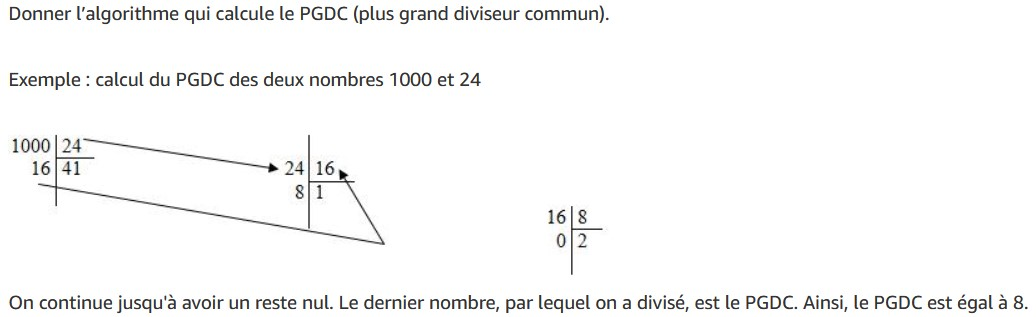
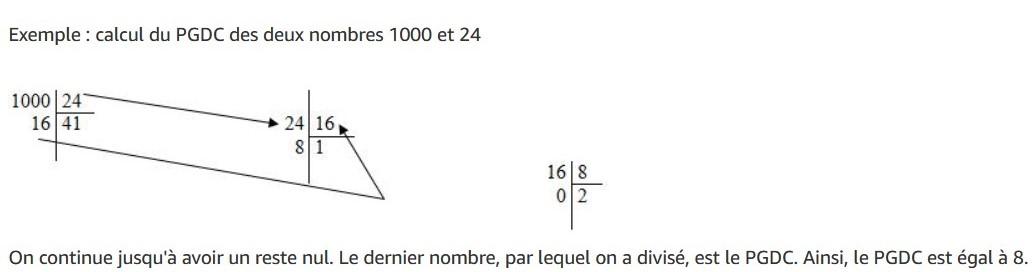
algo à jour

diff --git a/java/java1/0-algo-java/presentation/algo_basics.html b/java/java1/0-algo-java/presentation/algo_basics.html
@@ -232,7 +232,7 @@
         <section>
           <h3>Petit rappel sur le PGCD</h3>
           <figure class="fragment">
-            <img src="reveal.js/images/pgcd.jpg" alt="pgcd" width="600">
+            <img src="reveal.js/images/pgcd.jpg" alt="pgcd" width="800">
             <figcaption></figcaption>
           </figure>
         </section>

diff --git a/java/java1/0-algo-java/course/algo_basics.md b/java/java1/0-algo-java/course/algo_basics.md
@@ -60,9 +60,10 @@ Il y a de fortes chances que ce soit les plus contraintes (celles où il y a le 
 **Littérature** : [Think Like A Programmer An Introduction To Creative Problem Solving (V. Anton Spraul)](https://www.nostarch.com/thinklikeaprogrammer)
 
 ## Qu’est ce qu’un algorithme ?
+
 Il s’agit d’une suite (finie) d’opérations élémentaires qui permettent de résoudre un problème. C’est une procédure de calcul qui prend en entrée un ensemble E de valeurs et qui retourne en sortie en ensemble E’ de valeurs.
 
-Un algorithme doit toujours se terminer et fournir un résultat. Un algorithme est dit **correct** si pour chaque ensemble de valeurs **E** en entrée il fournit le même ensemble de résultat **E'** en sortie. Afin de s'assurer qu'un algorithme est correct, on peut le prouver de manière formelle. On utilise parfois certains algorithmes non corrects si l'on sait gérer le taux d'erreur de l'algorithme.
+Un algorithme doit toujours se terminer et fournir un résultat. Un algorithme est dit **correct** si pour chaque ensemble de valeurs **V** en entrée il fournit le même ensemble de résultat **V'** en sortie. Afin de s'assurer qu'un algorithme est correct, on peut le prouver de manière formelle. On utilise parfois certains algorithmes non corrects si l'on sait gérer le taux d'erreur de l'algorithme.
 
 _Attention_ : certains problèmes ne sont **pas calculables**, il n'existe pas d'algorithme qui permette leur résolution.
 
@@ -133,31 +134,35 @@ Pour plus de détails :
 
 Généralement, s'il n'y a qu'une seule valeur traiter, il est possible de le
 faire directement. Pour traiter des ensembles de valeurs, il y a principalement
-deux façon de décomposer :
+deux façons de décomposer :
 
 ##### Itérations
+
 On traite les valeurs les unes après les autres. On initialise le résultat avec la valeur correspondant à un ensemble vide, puis, pour chacune des valeurs à traiter, on met à jour ce résultat.
 Par exemple, pour calculer la somme des valeurs, on initialise le résultat à 0 et l'on additionne successivement chacune des valeurs au résultat partiel :
 ```
+
 début
-  xs
+  tab (est un tableau)
   somme = 0
-  pour_chaque x de xs :
+  pour_chaque x de tab :
     somme = somme + x
   fin_pour_chaque
 fin
 ```
 
 ##### Récursion
+
 On traite les valeurs par sous-ensemble (par exemple par moitiés), sauf si l'ensemble à traiter est trivial (un seul élément) et l'on combine les résultats sur les sous-ensembles.
 Par exemple, pour calculer la somme des valeurs, si l'ensemble est vide la somme est 0, s'il contient une valeur c'est celle-ci, sinon c'est la somme des sommes des deux moitiés :
+
 ```
 début
-  xs
-  si xs est vide :
+  tab est un tableau
+  si tab est vide :
     somme = 0
   sinon
-    si xs contient un seul élément x :
+    si tab contient un seul élément x :
       somme = x
     sinon
       somme1 = somme de la première motié
@@ -169,9 +174,10 @@ fin
 ```
 
 ### Nos amies les machines
+
 Grâce à nos machines (ordinateurs, calculateurs, microprocesseurs, ...), nous pouvons aujourd'hui (et depuis quelques décennies) leur demander de résoudre les algorithmes à notre place. Ceci grâce aux langages de programmation qui nous permettent de traduire nos algorithmes de calcul en langage compréhensible par la machine.
 
-Dans la pratique lorsque nous faisons du developpement Web, on prouve rarement un algorithme. En effet, il s'agit peu souvent d'applications critiques et nous "faisons confiance" à notre code.
+Dans la pratique lorsque nous faisons du developpement Web, on prouve rarement un algorithme. En effet, il s'agit peu souvent d'applications critiques et nous "faisons confiance" à notre code !
 
 Le développement Web n'est peut-être pas le plus exigeant en ce qui concerne les preuves algorithmiques mais nous devons bien avoir conscience de la notion de complexité algorithmique. En effet ne pouvons pas demander tout et n'importe quoi à notre machine car, comme nous, elle a des limites en temps d'exécution et en mémoire.
 
@@ -179,7 +185,9 @@ Le développement Web n'est peut-être pas le plus exigeant en ce qui concerne l
 C'est important aussi en développement Web car les calculs se font majoritairement sur votre serveur, donc plus vos algorithmes seront rapides et plus votre serveur le sera.
 
 Pour plus de détails :
+
 * [La complexité algorithmique avec exemple sur OpenClassrooms](https://openclassrooms.com/courses/decouvrez-le-fonctionnement-des-algorithmes/comprenez-la-complexite-algorithmique)
+
 * [La complexité algorithmique sur Wikipedia](https://fr.wikipedia.org/wiki/Analyse_de_la_complexit%C3%A9_des_algorithmes)
 
 **_Les applications d'algo_**
